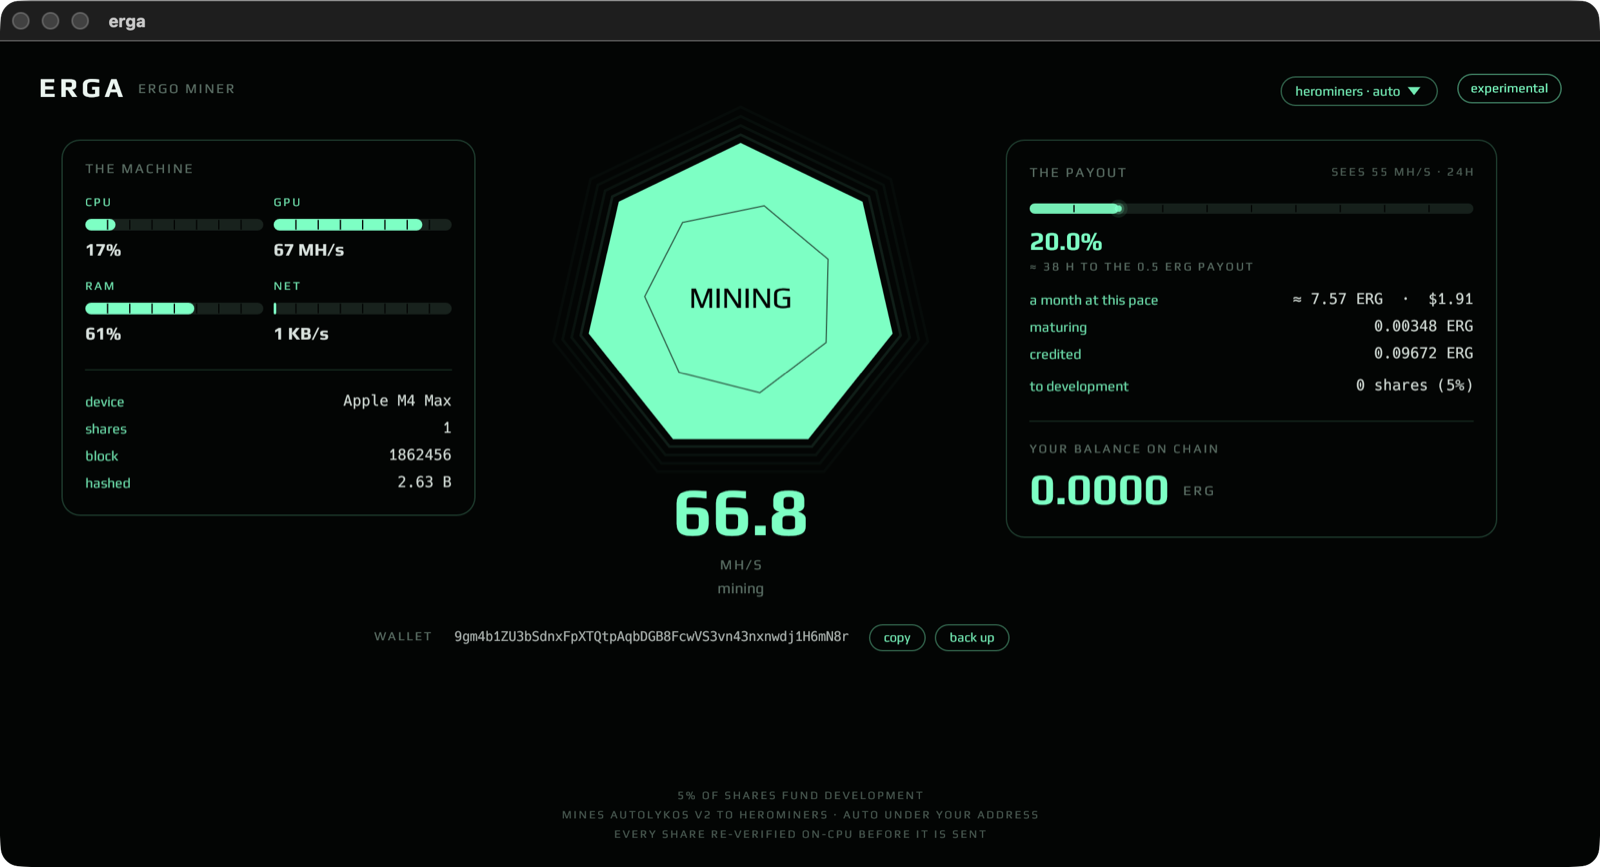
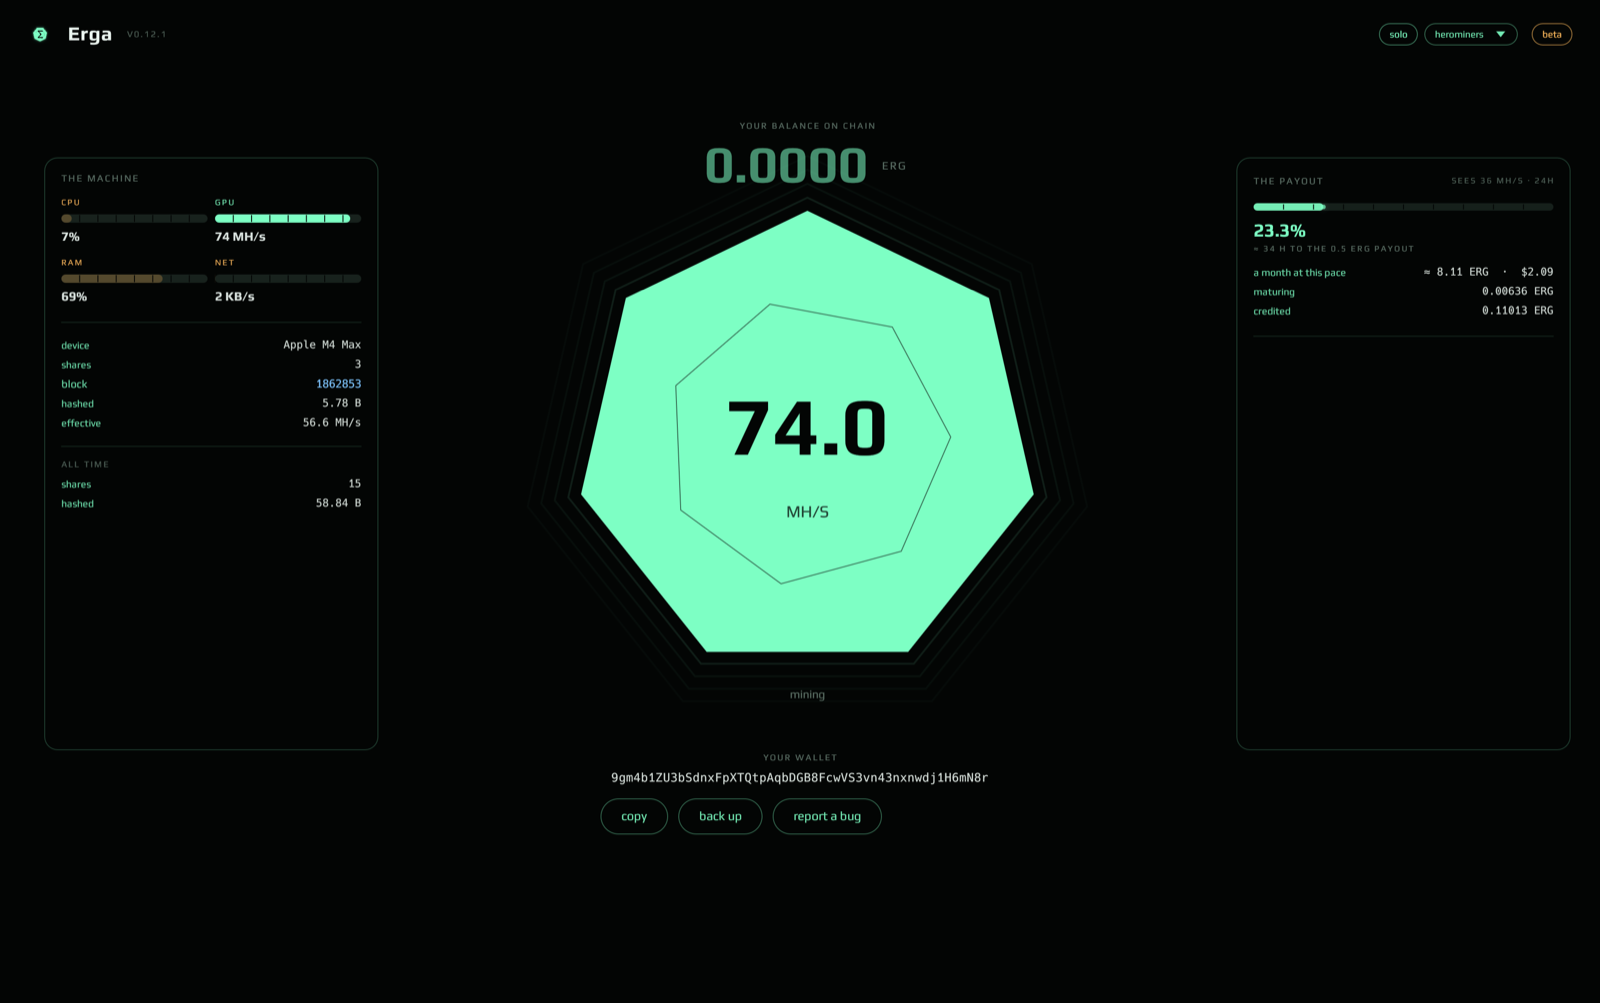
ui: the balance opens, the crystal centres, the actions close
Read the window top to bottom and it now states the case in order: the
balance is what this is for, the crystal is how you get it, the wallet is
where it lands. So the balance moved from the foot of the right panel to
the head of the window, and the actions moved to the foot — sized to be hit
rather than squinted at.

The crystal is centred on both axes, which took removing two errors that
measurement found and the eye did not. Horizontally, a 48px slack term in
the centre column's width was all landing on the right, pushing the axis
32px off. Vertically, the band height came from available_height read
*before* the header had drawn, so every centring below inherited a number
larger than the space that actually remained. Off by 113px; now 30.

Making that fit needed the rate to move inside the crystal, and it belongs
there: a filled crystal has already said 'mining', so the label was
spending the room the number needed. It also stops duplicating the GPU
meter, which was saying the same thing three inches away.

Both panels are the same size and centred on the crystal rather than hung
from the top of the window.

v0.13.0

diff --git a/rs/app/src/main.rs b/rs/app/src/main.rs
@@ -344,7 +344,6 @@ impl eframe::App for App {
 
         egui::CentralPanel::default().show(ctx, |ui| {
             let avail_w = ui.available_width();
-            let avail_h = ui.available_height();
             ui.add_space(16.0);
 
             // ── header — wordmark left, pool + badge right ────────────
@@ -442,58 +441,117 @@ impl eframe::App for App {
             let mut start_stop = false;
 
             let wide = avail_w >= 1000.0;
+            // The header has drawn by now, so ask again: the value taken
+            // before it is larger than what is actually left, and every
+            // centring below is computed from this number.
+            let avail_h = ui.available_height();
             if wide {
-                // ── the HUD: crystal sun, panels in orbit ─────────────
+                // ── the HUD ───────────────────────────────────────────
+                // Read top to bottom: the balance is what this is for, the
+                // crystal is how you get it, the wallet is where it lands.
+                // So the balance opens and the actions close, and the crystal
+                // sits dead centre of the window with the two panels — cost
+                // on the left, return on the right — level with it.
                 let side = 40.0;
-                // The two panels are the same object seen twice — what it
-                // costs on the left, what it returns on the right — so they
-                // get the same width and the same height, and the balance
-                // grows to take whatever slack the right one has.
                 let (pw, gap) = (360.0, 30.0);
-                let cw = (avail_w - side * 2.0 - pw * 2.0 - gap * 2.0 - 48.0).max(260.0);
-                let cr = (cw * 0.34).min(avail_h * 0.22).clamp(120.0, 240.0);
-                let centre_h = cr * 2.05 + 120.0;
-                let panel_h = centre_h.max(340.0);
-                ui.add_space(((avail_h - centre_h - 150.0) / 2.0).max(10.0));
+                let cw = (avail_w - side * 2.0 - pw * 2.0 - gap * 2.0).max(260.0);
+                // the actions own the foot of the window
+                let foot_h = 132.0;
+                let band_h = (avail_h - foot_h - 16.0).max(340.0);
+                // For the crystal's centre to land on band_h/2 while the rate
+                // still fits beneath it, the radius cannot exceed half the
+                // band less what sits below. Anything larger pushes the wallet
+                // out of the foot and over the status line.
+                let head_h = 110.0; // caps + the number + the gap under it
+                // Only the status line sits under the crystal now — the rate
+                // moved inside it. A giant number below competed with the
+                // balance above and, kept centred, left no room for either.
+                let rate_h = 54.0;
+                let cr = (cw * 0.34)
+                    .min(band_h / 2.0 - rate_h)
+                    .clamp(110.0, 250.0);
+                let panel_h = (band_h - 40.0).clamp(300.0, 640.0);
 
                 ui.horizontal(|ui| {
                     ui.add_space(side);
-                    panel_frame(ui, pw, panel_h, |ui| {
-                        machine_panel(ui, &p, cpu, mem, miner_cpu, miner_mem, net_kbs, mhs, running, eff_mhs, all_time);
+                    // panels are centred on the crystal, not hung from the top
+                    ui.vertical(|ui| {
+                        ui.set_width(pw);
+                        ui.add_space(((band_h - panel_h) / 2.0).max(0.0));
+                        panel_frame(ui, pw, panel_h, |ui| {
+                            machine_panel(ui, &p, cpu, mem, miner_cpu, miner_mem, net_kbs, mhs, running, eff_mhs, all_time);
+                        });
                     });
                     ui.add_space(gap);
-                    // the crystal and the hero rate under it
                     ui.vertical(|ui| {
                         ui.set_width(cw);
+                        // Everything above the crystal is sized so that the
+                        // crystal's own centre lands on band_h/2 exactly.
+                        ui.add_space(((band_h / 2.0) - cr - head_h).max(4.0));
+                        big_balance(ui, on_chain, cw);
+                        ui.add_space(14.0);
                         let (rect, resp) =
-                            ui.allocate_exact_size(Vec2::new(cw, cr * 2.05), Sense::click());
+                            ui.allocate_exact_size(Vec2::new(cw, cr * 2.0), Sense::click());
                         draw_crystal(ui, rect.center(), cr, running, self.spin, resp.hovered());
-                        ui.painter().text(
-                            rect.center(),
-                            Align2::CENTER_CENTER,
-                            if running { "MINING" } else { "START" },
-                            FontId::proportional((cr * 0.19).clamp(22.0, 38.0)),
-                            if running { BG } else { MINT },
-                        );
+                        // Mining, the crystal *is* the readout: the rate lives
+                        // where the label was, because a filled crystal has
+                        // already said "mining".
+                        if running {
+                            let c = rect.center();
+                            ui.painter().text(
+                                c - Vec2::new(0.0, cr * 0.06),
+                                Align2::CENTER_CENTER,
+                                format!("{mhs:.1}"),
+                                play_bold((cr * 0.42).clamp(34.0, 88.0)),
+                                BG,
+                            );
+                            ui.painter().text(
+                                c + Vec2::new(0.0, cr * 0.30),
+                                Align2::CENTER_CENTER,
+                                "MH/S",
+                                FontId::proportional((cr * 0.10).clamp(11.0, 18.0)),
+                                BG.gamma_multiply(0.75),
+                            );
+                        } else {
+                            ui.painter().text(
+                                rect.center(),
+                                Align2::CENTER_CENTER,
+                                "START",
+                                FontId::proportional((cr * 0.19).clamp(22.0, 38.0)),
+                                MINT,
+                            );
+                        }
                         if resp.clicked() {
                             start_stop = true;
                         }
                         if resp.hovered() {
                             ui.output_mut(|o| o.cursor_icon = egui::CursorIcon::PointingHand);
                         }
-                        ui.add_space(10.0);
-                        hero_rate(ui, mhs, running, &p, (cr * 0.44).clamp(52.0, 76.0));
-                        // the wallet belongs with the button that fills it
-                        ui.add_space(18.0);
-                        wallet_block(ui, addr_opt.as_deref(), &mut want_backup, &mut want_report);
+                        ui.add_space(12.0);
+                        ui.vertical_centered(|ui| {
+                            ui.label(
+                                egui::RichText::new(p.status.lock().unwrap().clone())
+                                    .color(MUTE)
+                                    .size(12.5),
+                            );
+                        });
                     });
                     ui.add_space(gap);
-                    panel_frame(ui, pw, panel_h, |ui| {
-                        let pi = self.pool.inner.lock().unwrap();
-                        payout_panel(ui, &pi, has_ledger, solo, on_chain, mhs, running, panel_h - 32.0);
+                    ui.vertical(|ui| {
+                        ui.set_width(pw);
+                        ui.add_space(((band_h - panel_h) / 2.0).max(0.0));
+                        panel_frame(ui, pw, panel_h, |ui| {
+                            let pi = self.pool.inner.lock().unwrap();
+                            payout_panel(ui, &pi, has_ledger, solo, mhs, running, panel_h - 32.0);
+                        });
                     });
                 });
 
+                // the actions, at the foot of the window and sized to be hit
+                ui.with_layout(egui::Layout::bottom_up(egui::Align::Center), |ui| {
+                    ui.add_space(22.0);
+                    wallet_block(ui, addr_opt.as_deref(), &mut want_backup, &mut want_report);
+                });
             } else {
                 // ── narrow: the same organs, stacked on one axis ──────
                 let col_w = (avail_w - 44.0).min(600.0);
@@ -502,7 +560,9 @@ impl eframe::App for App {
                 egui::ScrollArea::vertical()
                     .auto_shrink([false; 2])
                     .show(ui, |ui| {
-                        ui.add_space(6.0);
+                        ui.add_space(10.0);
+                        big_balance(ui, on_chain, col_w);
+                        ui.add_space(12.0);
                         let (rect, resp) = ui.allocate_at_least(
                             Vec2::new(ui.available_width(), cr * 2.25),
                             Sense::click(),
@@ -539,7 +599,7 @@ impl eframe::App for App {
                                 ui.add_space(12.0);
                                 panel_frame(ui, col_w, 0.0, |ui| {
                                     let pi = self.pool.inner.lock().unwrap();
-                                    payout_panel(ui, &pi, has_ledger, solo, on_chain, mhs, running, 0.0);
+                                    payout_panel(ui, &pi, has_ledger, solo, mhs, running, 0.0);
                                 });
                                 ui.add_space(14.0);
                             });
@@ -673,6 +733,44 @@ fn badge(ui: &mut egui::Ui, text: &str, tint: Color32) {
     let (rect, _) = ui.allocate_exact_size(size, Sense::hover());
     ui.painter().rect_stroke(rect, 999.0, Stroke::new(1.0, tint.gamma_multiply(0.6)));
     ui.painter().galley(rect.center() - galley.size() / 2.0, galley, tint);
+}
+
+/// The balance, at the top of the window: the number everything else exists
+/// to move. It is the one figure here that can grow without bound, so it is
+/// also the one allowed to shrink its own type rather than spill.
+fn big_balance(ui: &mut egui::Ui, on_chain: Option<f64>, w: f32) {
+    let (text, dim) = match on_chain {
+        Some(e) => (format!("{e:.4}"), e <= 0.0),
+        None => ("0.0000".to_string(), true),
+    };
+    let colour = if dim { MINT.gamma_multiply(0.55) } else { MINT };
+    let avail = (w - 90.0).max(80.0);
+    let mut size = 56.0f32;
+    while size > 18.0 {
+        let g = ui.painter().layout_no_wrap(text.clone(), play_bold(size), colour);
+        if g.size().x <= avail {
+            break;
+        }
+        size -= 2.0;
+    }
+    ui.vertical_centered(|ui| {
+        caps(ui, "your balance on chain", 9.5, MUTE);
+        ui.add_space(2.0);
+        ui.horizontal(|ui| {
+            let g = ui.painter().layout_no_wrap(text.clone(), play_bold(size), colour);
+            let row = g.size().x + 46.0;
+            ui.add_space(((ui.available_width() - row) / 2.0).max(0.0));
+            let mut job = egui::text::LayoutJob::default();
+            job.append(
+                &text,
+                0.0,
+                egui::TextFormat { font_id: play_bold(size), color: colour, ..Default::default() },
+            );
+            ui.label(job);
+            ui.add_space(7.0);
+            caps(ui, "erg", 12.0, MUTE);
+        });
+    });
 }
 
 /// A meter that separates *what erga costs* from what the machine was doing
@@ -865,7 +963,6 @@ fn payout_panel(
     pi: &pool::PoolInfo,
     has_ledger: bool,
     solo: bool,
-    on_chain: Option<f64>,
     mhs: f64,
     running: bool,
     // target_h: the height this panel must come out at, so the balance can
@@ -899,48 +996,10 @@ fn payout_panel(
     ui.add_space(12.0);
     ui.separator();
     ui.add_space(10.0);
-    // The balance takes whatever height is left over. The spacer is measured
-    // from what the panel has *used* (`min_rect`), not from what it thinks is
-    // available — the latter is unbounded here and overshoots, which is what
-    // left the two panels 62px apart.
-    const FOOT: f32 = 96.0; // separator + label + the number
-    if target_h > 0.0 {
-        let used = ui.min_rect().height();
-        ui.add_space((target_h - used - FOOT).max(10.0));
-    } else {
-        ui.add_space(14.0);
-    }
-    ui.separator();
-    ui.add_space(9.0);
-    caps(ui, "your balance on chain", 9.5, MUTE);
-    ui.add_space(3.0);
-    let (text, dim) = match on_chain {
-        Some(e) => (format!("{e:.4}"), e <= 0.0),
-        None => ("0.0000".to_string(), true),
-    };
-    let colour = if dim { MINT.gamma_multiply(0.6) } else { MINT };
-    // the one number here that can grow without bound, so the one allowed to
-    // shrink its own type rather than spill out of the panel
-    let avail = (ui.available_width() - 52.0).max(60.0);
-    let mut size = 42.0f32;
-    while size > 15.0 {
-        let g = ui.painter().layout_no_wrap(text.clone(), play_bold(size), colour);
-        if g.size().x <= avail {
-            break;
-        }
-        size -= 1.5;
-    }
-    ui.horizontal(|ui| {
-        let mut job = egui::text::LayoutJob::default();
-        job.append(
-            &text,
-            0.0,
-            egui::TextFormat { font_id: play_bold(size), color: colour, ..Default::default() },
-        );
-        ui.label(job);
-        ui.add_space(6.0);
-        caps(ui, "erg", 11.0, MUTE);
-    });
+    // The panel ends with the ledger. The balance moved to the head of the
+    // window, where it belongs: it is the reason for all of this, not a
+    // footnote to the pool's bookkeeping.
+    let _ = target_h;
 }
 
 
@@ -972,19 +1031,22 @@ fn wallet_block(
                 .size(13.0)
                 .color(CREAM.gamma_multiply(0.9)),
         );
-        ui.add_space(10.0);
+        ui.add_space(12.0);
         ui.horizontal(|ui| {
-            // centre the row of actions under the address
-            let w = 300.0;
-            ui.add_space(((ui.available_width() - w) / 2.0).max(0.0));
-            if ui.button(egui::RichText::new("copy").size(10.5)).clicked() {
+            // These are the only things you do here besides press the
+            // crystal, so they are sized to be hit rather than squinted at.
+            ui.spacing_mut().button_padding = Vec2::new(22.0, 11.0);
+            ui.spacing_mut().item_spacing.x = 12.0;
+            let row = 430.0;
+            ui.add_space(((ui.available_width() - row) / 2.0).max(0.0));
+            if ui.button(egui::RichText::new("copy").size(13.5)).clicked() {
                 ui.output_mut(|o| o.copied_text = addr.to_string());
             }
-            if ui.button(egui::RichText::new("back up").size(10.5)).clicked() {
+            if ui.button(egui::RichText::new("back up").size(13.5)).clicked() {
                 *want_backup = true;
             }
             if ui
-                .button(egui::RichText::new("report a bug").size(10.5))
+                .button(egui::RichText::new("report a bug").size(13.5))
                 .on_hover_text(
                     "opens a GitHub issue with your machine, the app state and the recent log already filled in",
                 )
